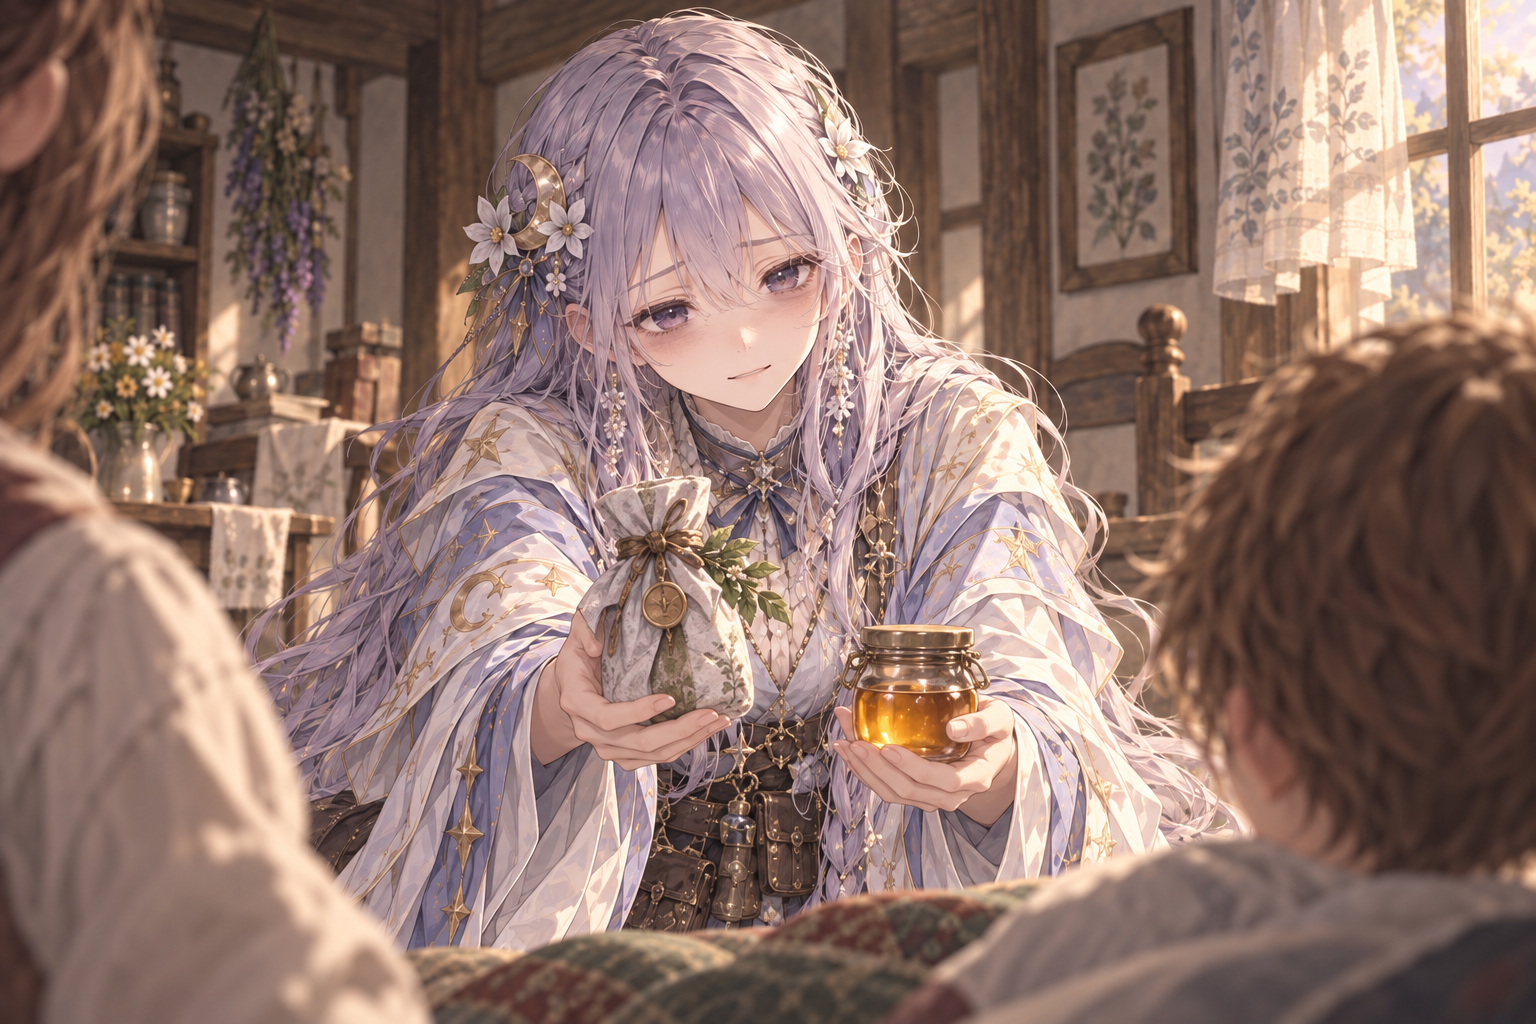
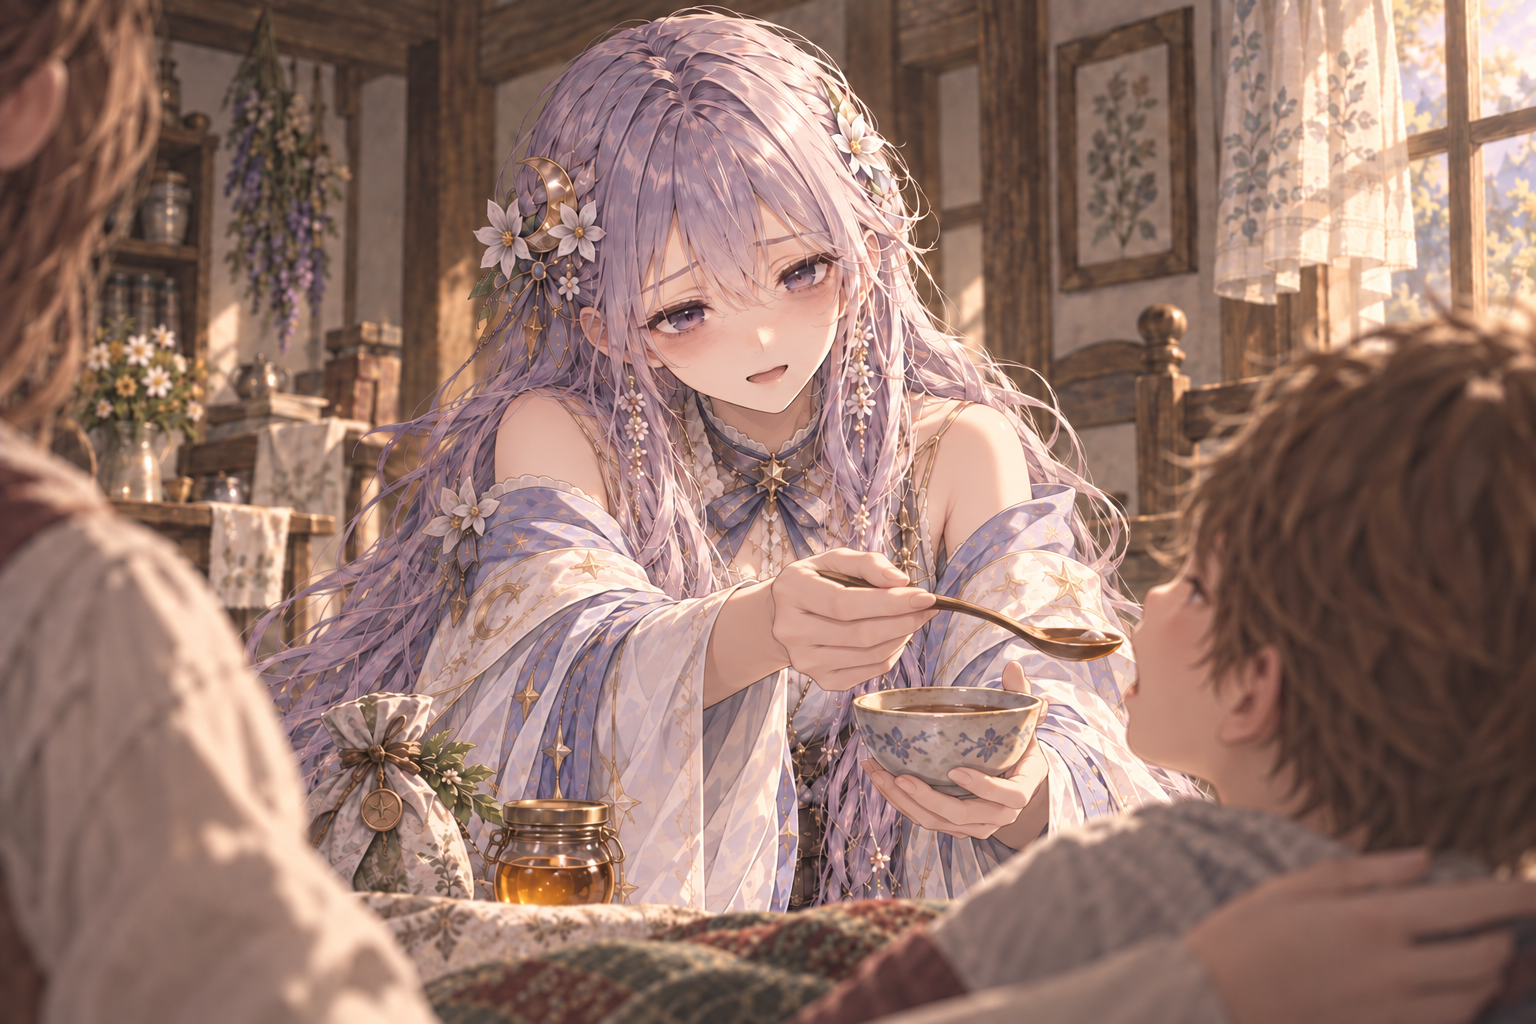
art: show medicine treatment and chibi tea scene

diff --git a/lib/chapter-two-finale-stories.ts b/lib/chapter-two-finale-stories.ts
@@ -41,7 +41,7 @@ export const finaleStories:Story[]=[
  {id:HOUSE_CALLS_QUEST+'-return',quest:HOUSE_CALLS_QUEST,title:'ちゃんと届いて、よかった',place:'第二部 2-8 · 往診先の家',chapter:'return',lines:[
   n('家々を回り、最後の包みを開いた。ミラは寝台のそばへ座り、子どもの返事を待ちながら様子を確かめる。'),
   m('喉、まだ痛むでしょう。痛いのは、我慢しなくていいのよ'),n('子ども「お薬、苦い？」'),m('この蜜も一緒に使いましょう。喉を楽にするために持ってきたの'),
-  n('ミラが薬の包みと蜜の瓶を子どもの手元へ差し出した。家の人が隣から支え、アリアとレオンは空いた薬箱のそばで見届けた。'),
+  n('薬の包みと蜜の瓶を枕元に置き、ミラが小さな器から薬を匙ですくった。「はい、あーん」。家の人に支えられた子どもが口を開けると、ミラはそっと匙を口元へ運んだ。アリアとレオンは薬箱のそばで見届けた。'),
   a('ちゃんと届いて、よかった'),l('ああ。瓶も割れてない'),
   n('ミラは家の人に包みの印を示し、薬と蜜を使う順番、休ませること、様子が変わったときの連絡先を一つずつ伝えた。家の人が言い直すのを聞いてから、控えを渡す。'),
   m('すぐに楽にならなくても、無理に起こさないでね。気になる変化があったら、知らせてください。'),

diff --git a/lib/story-art.ts b/lib/story-art.ts
@@ -10,12 +10,12 @@ export type StoryArt = {
 export const storyArt: Partial<Record<string, StoryArt>> = {
  'waiting-households-return': {
   src: '/stories/medicine-delivered.png',
-  alt: '少年と母親の側から正面に見るミラ。重いまぶたと目の下に寝不足の疲れをにじませながら、優しく薬と蜜を差し出す。',
+  alt: '少年と母親の側から正面に見るミラ。目元に寝不足の疲れをにじませながら「あーん」と促し、薬をすくった匙を少年の口元へ運ぶ。',
   width: 1536, height: 1024, revealAtLine: 4,
  },
  'medicine-road-home-return': {
   src: '/stories/three-cups-of-tea.png',
-  alt: 'ミラはお茶を飲みながら空いた手を往診のメモへ伸ばし、アリアがそっと紙を遠ざける。カップを持ったレオンが二人を見て笑う。',
+  alt: 'コミカルにデフォルメされた三人のお茶。仕事のメモへ手を伸ばして気まずそうなミラ、得意げに紙を押さえるアリア、笑うレオン。',
   width: 1536, height: 1024, revealAtLine: 11,
  },
  'begging-golem-departure': {

diff --git a/docs/story-art.md b/docs/story-art.md
@@ -4,10 +4,10 @@
 
 組み込み `image_gen` で各1536×1024の画像を制作。アリア・レオン・ミラのリファレンスシートを外見・衣装の参照に使い、文字なしの一枚絵にした。モデル識別子は返されていない。最終プロンプトは [生成記録](chapter-two-finale-art.json) に保存。
 
-- `public/stories/medicine-delivered.png`：`waiting-households-return` の0始まり4行目、ミラが薬と蜜を差し出す行から表示。少年・母親側の肩越しにミラを正面から見る構図。重いまぶた、目の下の影、疲れた肩に寝不足をにじませ、薬を渡す優しさを保つ。アリアとレオンは画面外。瞬時の全快や魔法の発光を置かない。
-- `public/stories/three-cups-of-tea.png`：`medicine-road-home-return` の0始まり11行目、ミラがカップを受け取り一口飲む行から表示。ミラは空いた手を往診のメモへ伸ばし、アリアが紙をそっと遠ざける。レオンはカップを持って笑う。同じ机に三人と三つのカップを置き、休んでも仕事を増やしかける癖を小さな仕草で見せる。対応する地の文もこの動作へ合わせた。
+- `public/stories/medicine-delivered.png`：`waiting-households-return` の0始まり4行目、ミラが匙で薬を飲ませる行から表示。少年・母親側の肩越しにミラを正面から見る構図。重いまぶた、目の下の影、疲れた肩に寝不足をにじませ、薬を飲ませる優しさを保つ。衣装はミラの設定図に合わせ、肩が見えるローブと細い肩紐を保つ。アリアとレオンは画面外。瞬時の全快や魔法の発光を置かない。
+- `public/stories/three-cups-of-tea.png`：`medicine-road-home-return` の0始まり11行目、ミラがカップを受け取り一口飲む行から表示。ミラは空いた手を往診のメモへ伸ばし、アリアが紙をそっと遠ざける。レオンはカップを持って笑う。大きな頭と小さな体、誇張した表情のコミカルなデフォルメ画にし、同じ机に三人と三つのカップを置く。休んでも仕事を増やしかける癖を小さな仕草で見せる。対応する地の文もこの動作へ合わせた。
 
-両画像を目視し、人物の外見、受け渡しと最初の一口、三人の席とカップ数、不要な文字の不在を確認。読了後は共通アルバムから閲覧できる。
+両画像を目視し、人物の外見、匙での服薬とお茶の最初の一口、三人の席とカップ数、不要な文字の不在を確認。読了後は共通アルバムから閲覧できる。
 
 ## 第二章2-6：大小の人形
 

diff --git a/docs/chapter-two-gameplay.md b/docs/chapter-two-gameplay.md
@@ -14,7 +14,7 @@
 ## 2-7〜2-9と第二部の完結
 
 - 2-7 `sweet-blockade`：前半9地点で小さな人形、後半6地点で大型ゴーレムと戦う。抵抗29、280 G、経験値200。人形とゴーレムの画像・大きさも切り替える。達成後は蜜と他の荷物の回収、被害確認の引き継ぎ、道標と荷車の通行再開まで描く。プティは素顔・親しい名前表示・加入なしで退く。
-- 2-8 `waiting-households`：全15地点、戦闘なし。包みの配達、湯と水の準備、仕分け、空き瓶の回収、控えの確認を繰り返す。240 G、経験値170。診察と薬の判断はミラ。薬と蜜を渡す行から一枚絵を表示し、家の人へ看病を引き継ぐ。仕事後の寝落ちと、一晩の休息を描く。
+- 2-8 `waiting-households`：全15地点、戦闘なし。包みの配達、湯と水の準備、仕分け、空き瓶の回収、控えの確認を繰り返す。240 G、経験値170。診察と薬の判断はミラ。匙で薬を飲ませる行から一枚絵を表示し、家の人へ看病を引き継ぐ。仕事後の寝落ちと、一晩の休息を描く。
 - 2-9 `medicine-road-home`：15地点のうち小型スライム戦3地点（抵抗20）、道標・荷車・作業場・空き瓶の確認12地点。220 G、経験値160。街で瓶と控えを返し、次の往診の日程を決める。ミラが一口飲む行から三人のお茶の一枚絵を表示する。二人だけの次の約束と、各村への帰宅で第二部を閉じる。
 - 報酬経験値は参加者ごと。技の追加購入は進行条件にしない。2-6完了済み記録をそのまま継続でき、初回読了待ち・再読・無料周回は共通の進行処理を使う。
 - `tests/chapter-two-finale.test.mjs` で2-6記録からの連続進行、途中帰還、保存往復、留守中の停止とライブ精算一致、周回、敵表示、非戦闘、画像の表示開始を検証する。章後の印を比較する任意会話は今回の対象外・未実装。

diff --git a/docs/story-part-2.md b/docs/story-part-2.md
@@ -354,7 +354,7 @@
 | --- | --- | --- |
 | 2-2 ミラが倒れる | 崩れたミラをレオンが支え、アリアがそばへ駆け寄る | ミラの膝が折れた行 |
 | 2-6 大小の人形 | ハロウィン風に飾った大小の人形と、少し後ろで操る小柄なパンプキンヘッド姿のプティ | 大きな人形が姿を現し、同じ仕草をする行 |
-| 2-8 薬が届く | 病気の子へ薬と蜜を渡すミラと、見届ける二人 | 薬と蜜を渡す行 |
+| 2-8 薬が届く | 少年・母親側から正面に見るミラが、匙で薬を飲ませる | 薬の匙を口元へ運ぶ行 |
 | 2-9 三人分のお茶 | 仕事を終え、ようやく同じ席でお茶を飲む三人 | ミラもカップを受け取り、一口飲む行 |
 
 2-1のパンの場面には一枚絵を置かない。プティが絵に入る場合はパンプキンヘッド姿を維持する。2-2・2-6・2-8・2-9の絵は制作・組み込み済み。 [スチル制作記録](story-art.md) に生成条件と表示箇所を記録している。

diff --git a/docs/story-art-gallery.md b/docs/story-art-gallery.md
@@ -4,7 +4,7 @@
 
 ![薬と蜜の配達](../public/stories/medicine-delivered.png)
 
-第二部2-8。ミラが子どもと家の人へ薬と蜜を差し出す行から表示。
+第二部2-8。ミラが子どもの口元へ薬の匙を運ぶ行から表示。
 
 ## 三人分のお茶
 
